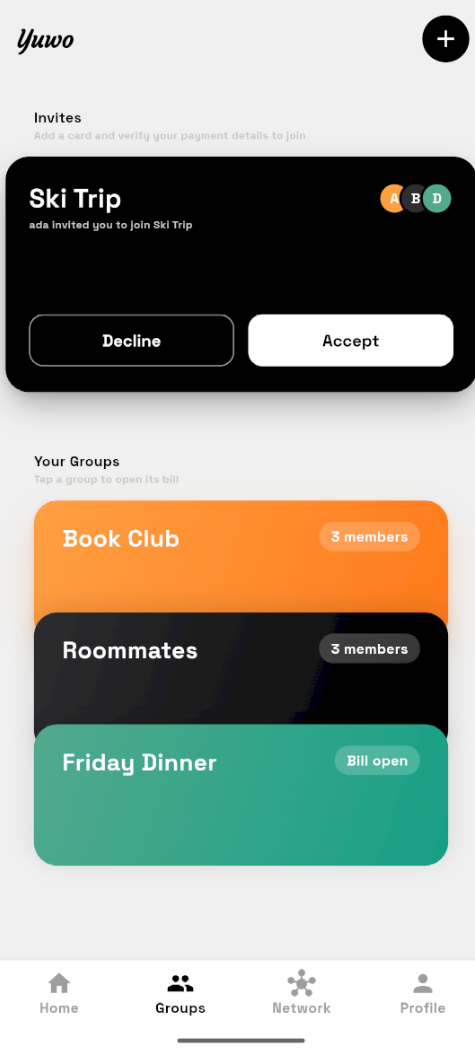
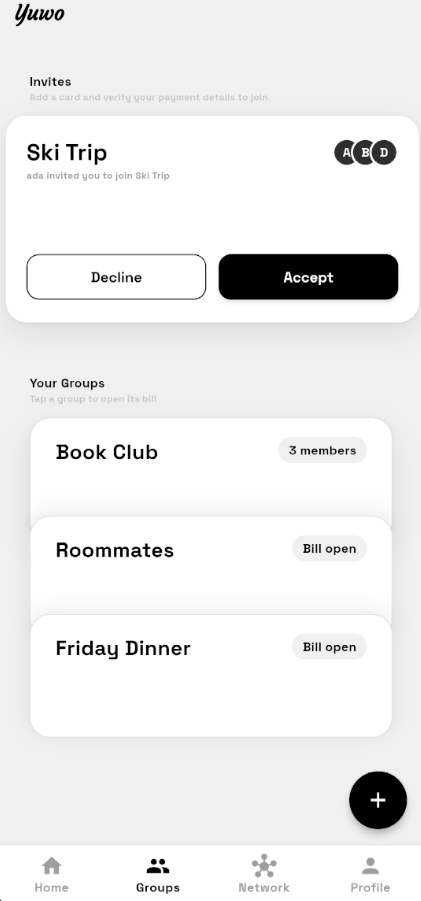
add frontend files

diff --git a/public/index.html b/public/index.html
@@ -6,7 +6,7 @@
 <title>yuwo — coming soon</title>
 <link rel="preconnect" href="https://fonts.googleapis.com">
 <link rel="preconnect" href="https://fonts.gstatic.com" crossorigin>
-<link href="https://fonts.googleapis.com/css2?family=Fraunces:opsz,wght@9..144,400;9..144,500;9..144,600&family=Inter:wght@400;500;600&display=swap" rel="stylesheet">
+<link href="https://fonts.googleapis.com/css2?family=Courgette&family=Fraunces:opsz,wght@9..144,400;9..144,500;9..144,600&family=Inter:wght@400;500;600&display=swap" rel="stylesheet">
 <link rel="stylesheet" href="style.css">
 </head>
 <body>
@@ -56,7 +56,14 @@
           <!-- add screenshot -->
           <img src="group.png" alt="GroupPage">
         </div>
-        <p class="frame-caption">Groupings for Bills</p>
+        <p class="frame-caption">Groups</p>
+      </div>
+
+      <div class="frame">
+        <div class="phone">
+          <img src="groupbills.png" alt="Group Bills">
+        </div>
+        <p class="frame-caption">Group Billings</p>
       </div>
 
       <div class="frame">
@@ -70,6 +77,7 @@
 
     <div class="dots" id="dots">
       <div class="dot active"></div>
+      <div class="dot"></div>
       <div class="dot"></div>
       <div class="dot"></div>
     </div>

diff --git a/public/style.css b/public/style.css
@@ -54,10 +54,10 @@
   }
 
   .logo{
-    font-family:'Fraunces', serif;
-    font-size:22px;
-    font-weight:500;
-    letter-spacing:-0.01em;
+    font-family:'Courgette', cursive;
+    font-size:20px;
+    font-weight:700;
+    color:#000;
     text-decoration:none;
   }
 
